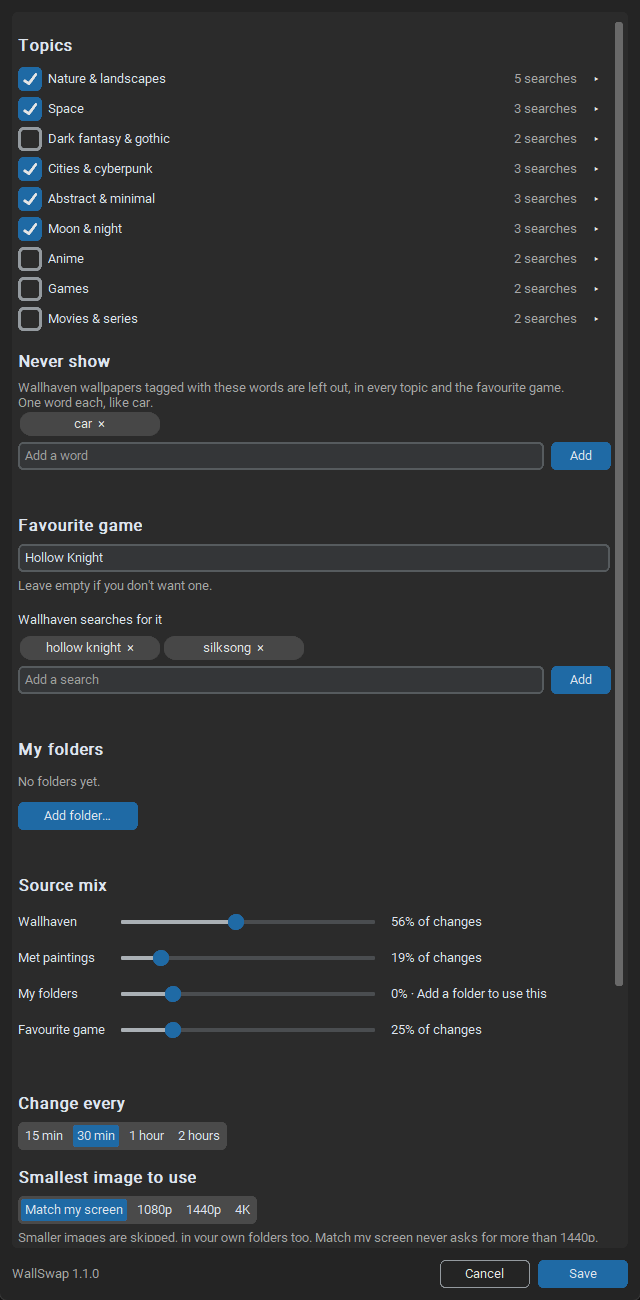
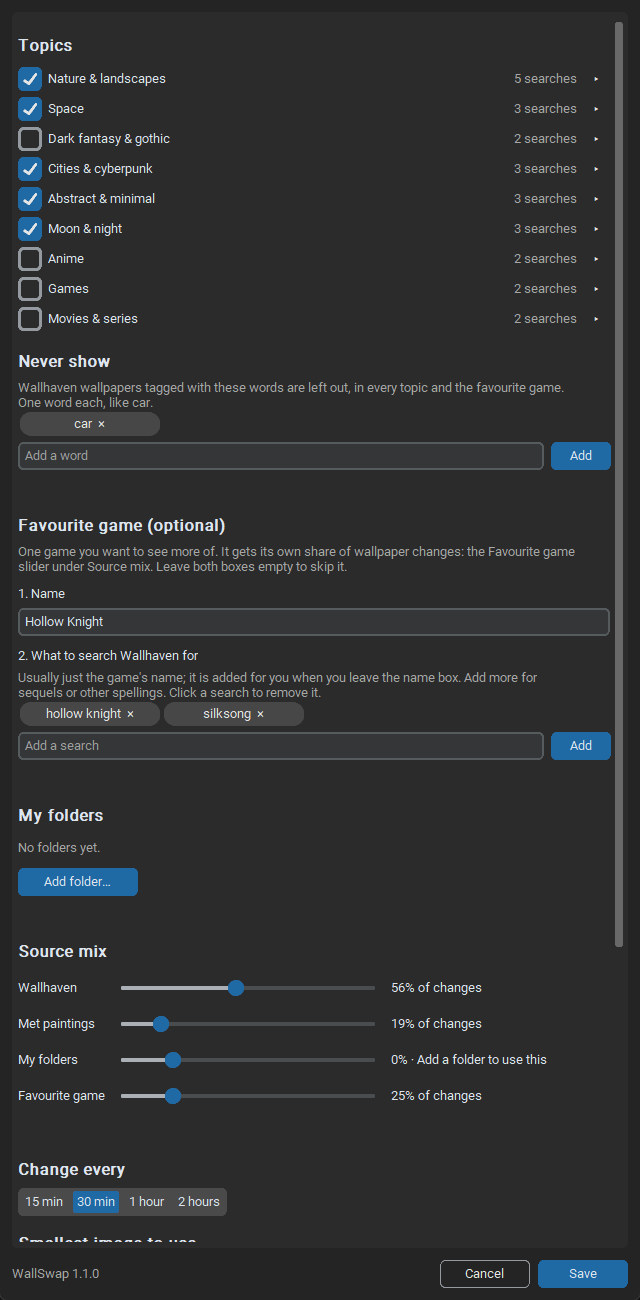
fix: answer Check for Updates in a dialog; clearer Favourite game section
Check for Updates answered with a tray notification, which Windows does
not show when notifications or Do not disturb are off, so the click
looked like it did nothing. A check asked for from the tray now answers
in a small dialog (and offers to open the download page when there is
an update). The automatic daily check still uses a notification.

The Favourite game section says what it is for, numbers its two boxes,
and adds the typed name as the first search when there are none.

Changed region(s): [[0.0312, 0.4, 0.9688, 0.9538], [0.9375, 0.7385, 0.9688, 0.7692], [0.5, 0.9231, 0.5312, 0.9538]]

diff --git a/wallpaper_changer.py b/wallpaper_changer.py
@@ -860,6 +860,21 @@ def apply_wallpaper_fit(fit: str) -> None:
         winreg.SetValueEx(key, "TileWallpaper", 0, winreg.REG_SZ, "0")
 
 
+MB_OK, MB_YESNO, MB_ICONINFORMATION = 0x0, 0x4, 0x40
+MB_SETFOREGROUND, MB_TOPMOST = 0x10000, 0x40000  # in front of other windows, where a tray click expects it
+IDOK, IDYES = 1, 6
+
+
+def message_box(text: str, title: str = "WallSwap", yes_no: bool = False) -> bool:
+    """Show a small Windows dialog and wait for the user. True for OK or Yes.
+
+    For answers the user asked for (Check for Updates): a tray notification is not shown at all when Windows
+    notifications or Do not disturb are off, which looks like nothing happened.
+    """
+    flags = (MB_YESNO if yes_no else MB_OK) | MB_ICONINFORMATION | MB_SETFOREGROUND | MB_TOPMOST
+    return ctypes.windll.user32.MessageBoxW(None, text, title, flags) in (IDOK, IDYES)
+
+
 def set_wallpaper(image_path: str):
     """Set the desktop wallpaper using Windows API."""
     SPI_SETDESKWALLPAPER = 0x0014
@@ -1689,6 +1704,8 @@ class WallSwapApp:
         self.elapsed = 0
         self.update_version: str | None = None  # a newer release found by the update check
         self.next_update_check = 0.0            # time.monotonic() of the next automatic check; 0 = at startup
+        # Held while a check asked for from the tray runs and its dialog is open, so clicks can't stack dialogs
+        self.manual_update_check = threading.Lock()
         self.retry_after: int | None = None  # seconds until a skipped or failed change is tried again
         self.failures = 0                    # failed changes in a row
         self.change_lock = threading.Lock()  # one wallpaper change at a time
@@ -2107,8 +2124,26 @@ class WallSwapApp:
 
     # ── Updates ──
     def check_for_updates(self, _=None):
-        """Tray: ask GitHub now and always say what it answered."""
-        threading.Thread(target=self._check_for_updates, args=(True,), daemon=True).start()
+        """Tray: ask GitHub now and always say what it answered, in a dialog."""
+        threading.Thread(target=self._manual_update_check, daemon=True).start()
+
+    def _manual_update_check(self):
+        if not self.manual_update_check.acquire(blocking=False):
+            return  # one is already running, or its dialog is still open
+        try:
+            self._check_for_updates(True)
+        finally:
+            self.manual_update_check.release()
+
+    def answer(self, message: str, yes_no: bool = False) -> bool:
+        """Worker thread: tell the user something they asked for, in a dialog they can't miss. True for OK/Yes."""
+        log.info(f"WallSwap: {message}".replace("\n", " "))
+        try:
+            return message_box(message, f"WallSwap {APP_VERSION}", yes_no)
+        except Exception as e:
+            log.warning(f"Couldn't show a dialog, using a notification: {e}")
+            self.notify(message.replace("\n", " "))
+            return False
 
     def auto_check_for_updates(self):
         """Timer thread: start the daily check when it is due and the user hasn't turned it off."""
@@ -2121,13 +2156,14 @@ class WallSwapApp:
         threading.Thread(target=self._check_for_updates, args=(False,), daemon=True).start()
 
     def _check_for_updates(self, manual: bool):
-        """Worker thread. An automatic check speaks up only once per new version; a manual one always answers."""
+        """Worker thread. An automatic check notifies only once per new version; a manual one always answers,
+        in a dialog."""
         try:
             latest = latest_release()
         except Exception as e:  # offline, timeout, HTTP error or an odd reply
             log.warning(f"Couldn't check for updates: {e}")
             if manual:
-                self.notify("Couldn't check for updates right now.")
+                self.answer("Couldn't check for updates right now.\n\nCheck your internet connection and try again.")
             else:
                 self.next_update_check = time.monotonic() + UPDATE_RETRY_SECONDS
             return
@@ -2136,17 +2172,23 @@ class WallSwapApp:
             self.update_version = None
             self.refresh_menu()
             if manual:
-                self.notify(f"You're up to date (WallSwap {APP_VERSION}).")
+                self.answer(f"You're up to date.\n\nWallSwap {APP_VERSION} is the newest version.")
             return
         self.update_version = latest
         self.refresh_menu()
-        if manual or not update_already_notified(latest):
-            self.notify(f"WallSwap {latest} is available (you have {APP_VERSION}). "
-                        "Click Update available in the tray menu to get it.", "Update available")
+        first_time = not update_already_notified(latest)
+        if first_time:
             try:
                 UPDATE_NOTIFIED_FILE.write_text(latest, encoding="utf-8")
             except OSError as e:
                 log.warning(f"Couldn't remember the update notice, it may show again: {e}")
+        if manual:
+            if self.answer(f"WallSwap {latest} is available (you have {APP_VERSION}).\n\n"
+                           "Open the download page?", yes_no=True):
+                self.open_releases()
+        elif first_time:
+            self.notify(f"WallSwap {latest} is available (you have {APP_VERSION}). "
+                        "Click Update available in the tray menu to get it.", "Update available")
 
     def open_releases(self, _=None):
         """Open WallSwap's Releases page; the user downloads and installs the update themselves."""

diff --git a/tests/test_update_check.py b/tests/test_update_check.py
@@ -81,6 +81,14 @@ def app(monkeypatch):
     opened = []
     monkeypatch.setattr(wc.webbrowser, "open", opened.append)
     app.opened = opened
+    app.dialogs = []      # (text, yes_no) of every dialog shown
+    app.click_yes = False  # what the user clicks in a Yes/No dialog
+
+    def fake_box(text, title="WallSwap", yes_no=False):
+        app.dialogs.append((text, yes_no))
+        return app.click_yes if yes_no else True
+
+    monkeypatch.setattr(wc, "message_box", fake_box)
     yield app
     wc.UPDATE_NOTIFIED_FILE.unlink(missing_ok=True)
 
@@ -106,20 +114,64 @@ def test_an_automatic_check_tells_once_per_version(app, monkeypatch):
     assert app.update_version == "99.1.0" and len(app.notes) == 2
 
 
-def test_a_manual_check_always_answers(app, monkeypatch):
+def test_a_manual_check_always_answers_in_a_dialog_not_a_notification(app, monkeypatch):
+    """Notifications can be switched off in Windows; an answer the user asked for must still be seen."""
     _latest(monkeypatch, "99.0.0")
     app._check_for_updates(manual=True)
     app._check_for_updates(manual=True)
-    assert len(app.notes) == 2
+    assert len(app.dialogs) == 2 and all(yes_no for _text, yes_no in app.dialogs)
+    assert "99.0.0 is available" in app.dialogs[0][0]
+    assert app.opened == []  # clicked No: nothing opens
+
+    app.click_yes = True
+    app._check_for_updates(manual=True)
+    assert app.opened == [wc.RELEASES_URL]
 
     _latest(monkeypatch, wc.APP_VERSION)
     app._check_for_updates(manual=True)
-    assert app.notes[-1] == f"You're up to date (WallSwap {wc.APP_VERSION})."
+    assert app.dialogs[-1] == (f"You're up to date.\n\nWallSwap {wc.APP_VERSION} is the newest version.", False)
     assert app.update_version is None
 
     _latest(monkeypatch, OSError("offline"))
     app._check_for_updates(manual=True)
-    assert app.notes[-1] == "Couldn't check for updates right now."
+    assert app.dialogs[-1][0].startswith("Couldn't check for updates right now.")
+    assert app.notes == []  # no notifications at all for manual checks
+
+
+def test_an_automatic_check_never_opens_a_dialog(app, monkeypatch):
+    for version in ("99.0.0", wc.APP_VERSION, OSError("offline")):
+        _latest(monkeypatch, version)
+        app._check_for_updates(manual=False)
+    assert app.dialogs == []
+
+
+def test_a_manual_check_after_the_automatic_notice_still_answers_and_does_not_renotify(app, monkeypatch):
+    _latest(monkeypatch, "99.0.0")
+    app._check_for_updates(manual=False)
+    app._check_for_updates(manual=True)
+    app._check_for_updates(manual=False)
+    assert len(app.notes) == 1 and len(app.dialogs) == 1
+
+
+def test_a_second_click_while_a_check_is_open_does_nothing(app, monkeypatch):
+    _latest(monkeypatch, wc.APP_VERSION)
+    app.manual_update_check.acquire()  # a check is running or its dialog is open
+    try:
+        app._manual_update_check()
+    finally:
+        app.manual_update_check.release()
+    assert app.dialogs == []
+    app._manual_update_check()
+    assert len(app.dialogs) == 1 and not app.manual_update_check.locked()
+
+
+def test_if_the_dialog_cannot_be_shown_a_notification_is_tried(app, monkeypatch):
+    def broken(*args, **kwargs):
+        raise OSError("no desktop")
+    monkeypatch.setattr(wc, "message_box", broken)
+    _latest(monkeypatch, wc.APP_VERSION)
+    app._check_for_updates(manual=True)
+    assert app.notes == [f"You're up to date.  WallSwap {wc.APP_VERSION} is the newest version."]
 
 
 def test_an_automatic_check_is_silent_when_up_to_date_or_offline_and_retries_sooner(app, monkeypatch):

diff --git a/settings_window.py b/settings_window.py
@@ -94,6 +94,12 @@ class TagList(ctk.CTkFrame):
     def values(self) -> list[str]:
         return [search for search, _chip in self._chips]
 
+    def add(self, text: str):
+        """Add text as if the user had typed it and pressed Add."""
+        self._entry.delete(0, "end")
+        self._entry.insert(0, text)
+        self._add()
+
     def _add_chip(self, search: str):
         chip = ctk.CTkButton(self._chip_frame, text=f"{search}  ×", height=24, corner_radius=12,
                              fg_color=("gray80", "gray28"), hover_color=("gray70", "gray36"),
@@ -320,20 +326,33 @@ class SettingsWindow(ctk.CTkToplevel):
         self._exclude.pack(fill="x")
 
     def _build_game(self, body):
-        self._heading(body, "Favourite game")
+        self._heading(body, "Favourite game (optional)")
+        ctk.CTkLabel(body, text="One game you want to see more of. It gets its own share of wallpaper changes: "
+                                "the Favourite game slider under Source mix. Leave both boxes empty to skip it.",
+                     text_color=HINT_COLOR, anchor="w", justify="left", wraplength=560).pack(fill="x")
+        ctk.CTkLabel(body, text="1. Name", anchor="w").pack(fill="x", pady=(6, 0))
         limit = self.deps.game_name_max
         self._game_name = ctk.CTkEntry(
-            body, placeholder_text="Game name", validate="key",
+            body, placeholder_text="For example: Hollow Knight", validate="key",
             validatecommand=(self.register(lambda text: len(text) <= limit), "%P"))
         if self._snapshot["game_name"]:
             self._game_name.insert(0, self._snapshot["game_name"][:limit])
         self._game_name.pack(fill="x")
-        ctk.CTkLabel(body, text="Leave empty if you don't want one.", text_color=HINT_COLOR,
-                     anchor="w").pack(fill="x")
-        ctk.CTkLabel(body, text="Wallhaven searches for it", anchor="w").pack(fill="x", pady=(6, 0))
+        ctk.CTkLabel(body, text="2. What to search Wallhaven for", anchor="w").pack(fill="x", pady=(6, 0))
+        ctk.CTkLabel(body, text="Usually just the game's name; it is added for you when you leave the name box. "
+                                "Add more for sequels or other spellings. Click a search to remove it.",
+                     text_color=HINT_COLOR, anchor="w", justify="left", wraplength=560).pack(fill="x")
         self._game_tags = TagList(body, self._snapshot["game_queries"], self.deps.clean_search,
                                   on_change=self._refresh_shares, count_search=self.deps.count_search, is_game=True)
         self._game_tags.pack(fill="x")
+        self._game_name.bind("<FocusOut>", lambda _e: self._name_to_search())
+        self._game_name.bind("<Return>", lambda _e: self._name_to_search())
+
+    def _name_to_search(self):
+        """A typed game name with no searches yet becomes the first search, so the game has something to use."""
+        name = self._game_name.get().strip()
+        if name and not self._game_tags.values():
+            self._game_tags.add(name)
 
     def _build_folders(self, body):
         self._heading(body, "My folders")

diff --git a/tests/conftest.py b/tests/conftest.py
@@ -43,6 +43,8 @@ def _fixed_screen(request, monkeypatch):
 def _no_real_windows_state(request, monkeypatch):
     """Tests never depend on the PC's real connection and never write the real registry; test_metered_fit
     fakes both itself."""
+    # A real dialog would wait for a click forever
+    monkeypatch.setattr(wallpaper_changer, "message_box", lambda *args, **kwargs: False)
     if request.module.__name__ != "test_metered_fit":
         monkeypatch.setattr(wallpaper_changer, "is_metered", lambda: False)
         monkeypatch.setattr(wallpaper_changer, "apply_wallpaper_fit", lambda fit: None)

diff --git a/README.md b/README.md
@@ -57,7 +57,7 @@ Right-click the tray icon and pick Settings… to open it again.
 
 - **Topics:** tick the ones you want. Click a topic's arrow to see its searches; click a search to remove it, or type your own and press Add. Only ticked topics are searched, and every search in them is equally likely.
 - **Never show:** words to keep out of Wallhaven results, in every topic and the favourite game. One word each (like `car`), up to 10. Met paintings and your own folders aren't affected.
-- **Favourite game:** a name and some Wallhaven searches for it. Leave it empty if you don't want one. There aren't many game wallpapers, so once they've all been shown, that share uses the game's folders instead.
+- **Favourite game (optional):** one game you want to see more of, with its own slider in the source mix. Type its name and WallSwap adds it as the first Wallhaven search; add more searches for sequels or other spellings. Leave it empty if you don't want one. There aren't many game wallpapers, so once they've all been shown, that share uses the game's folders instead.
 - **My folders:** add or remove your own image folders. Only images directly in a folder are used, not subfolders, and WallSwap never changes anything in them.
 - **Source mix:** one slider each for Wallhaven, Met paintings, your folders and your favourite game. The percentage next to each is its real share of changes. A source with nothing to use (no folders, no game searches, no ticked topics) or turned off drops out and says why.
 - **Change every:** 15 min, 30 min, 1 hour or 2 hours.
@@ -82,7 +82,7 @@ Double-click the icon to skip to the next wallpaper. Right-click for:
 - Pause
 - Interval, Sources, My Folders: quick versions of the same settings
 - Settings…: opens the settings window
-- Check for Updates: asks GitHub now and tells you the answer
+- Check for Updates: asks GitHub now and shows the answer in a small dialog
 - WallSwap Folder
 - Quit
 
